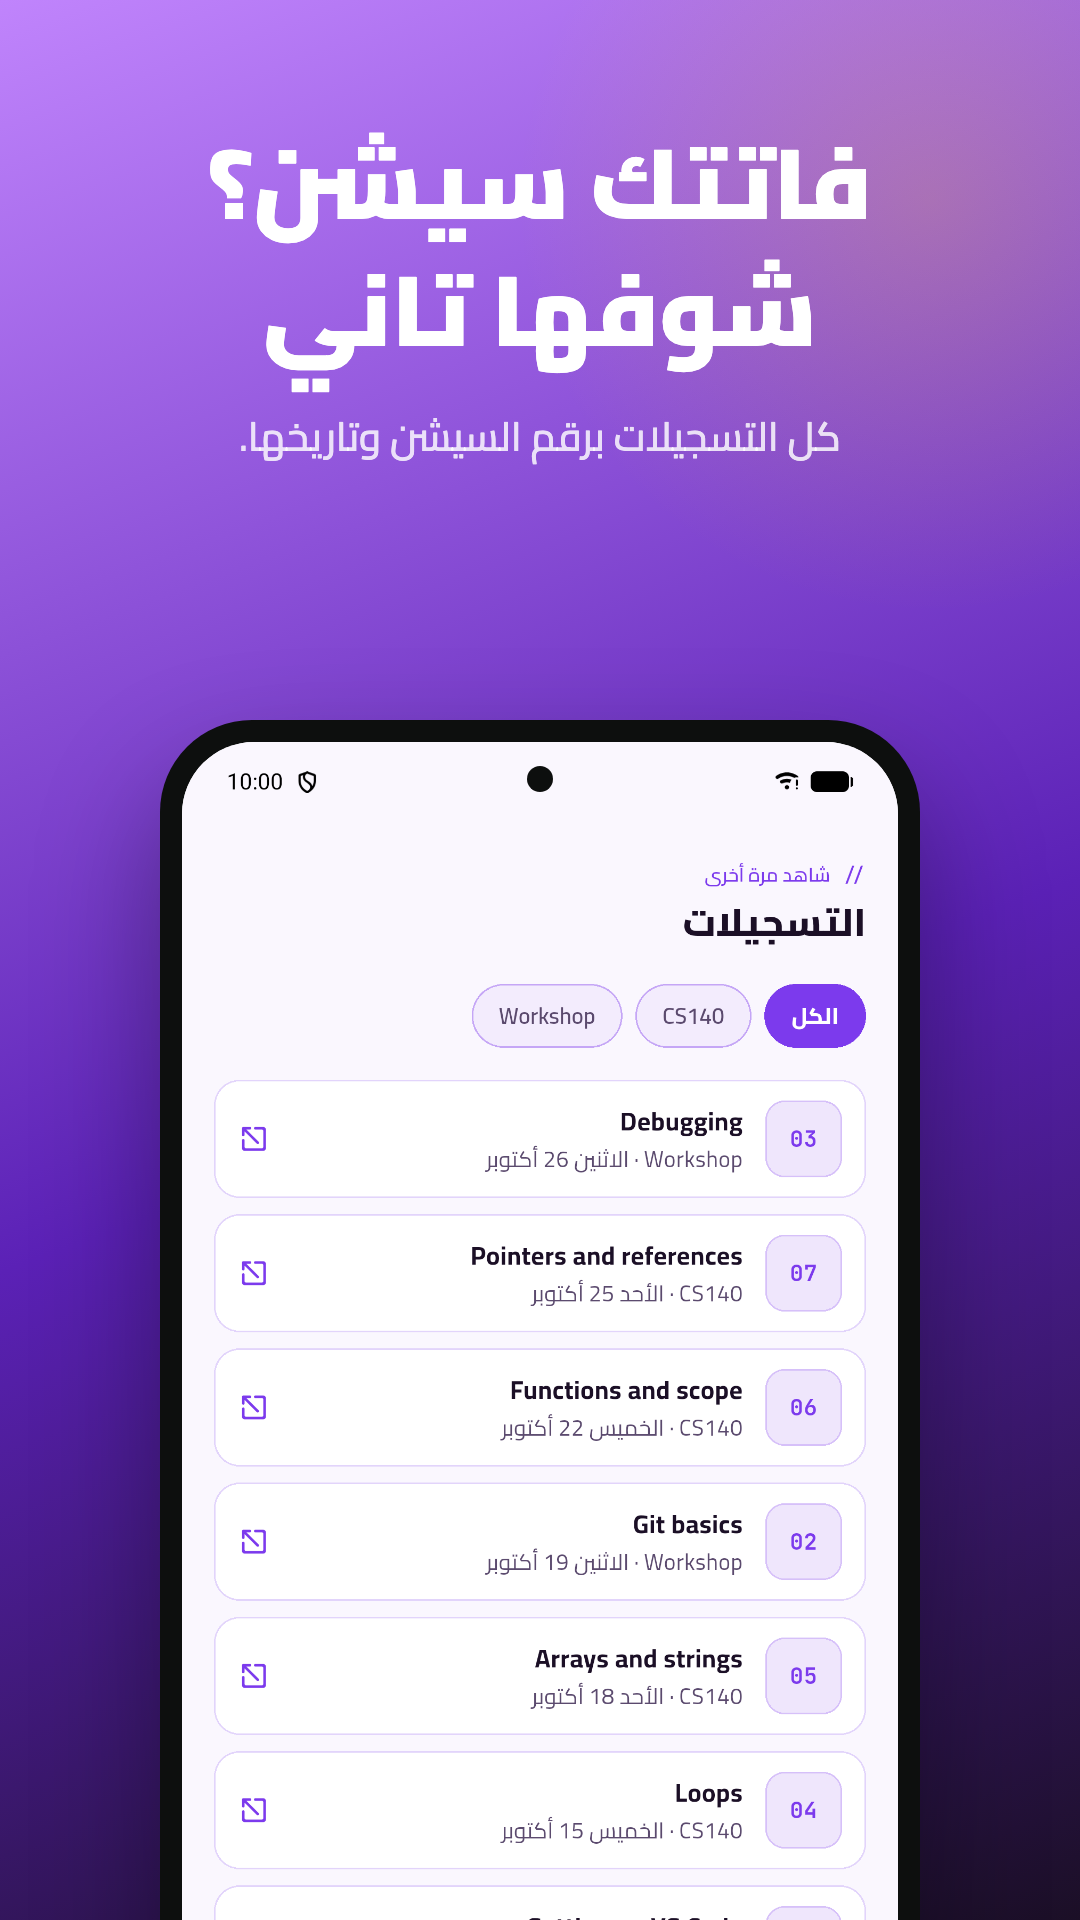
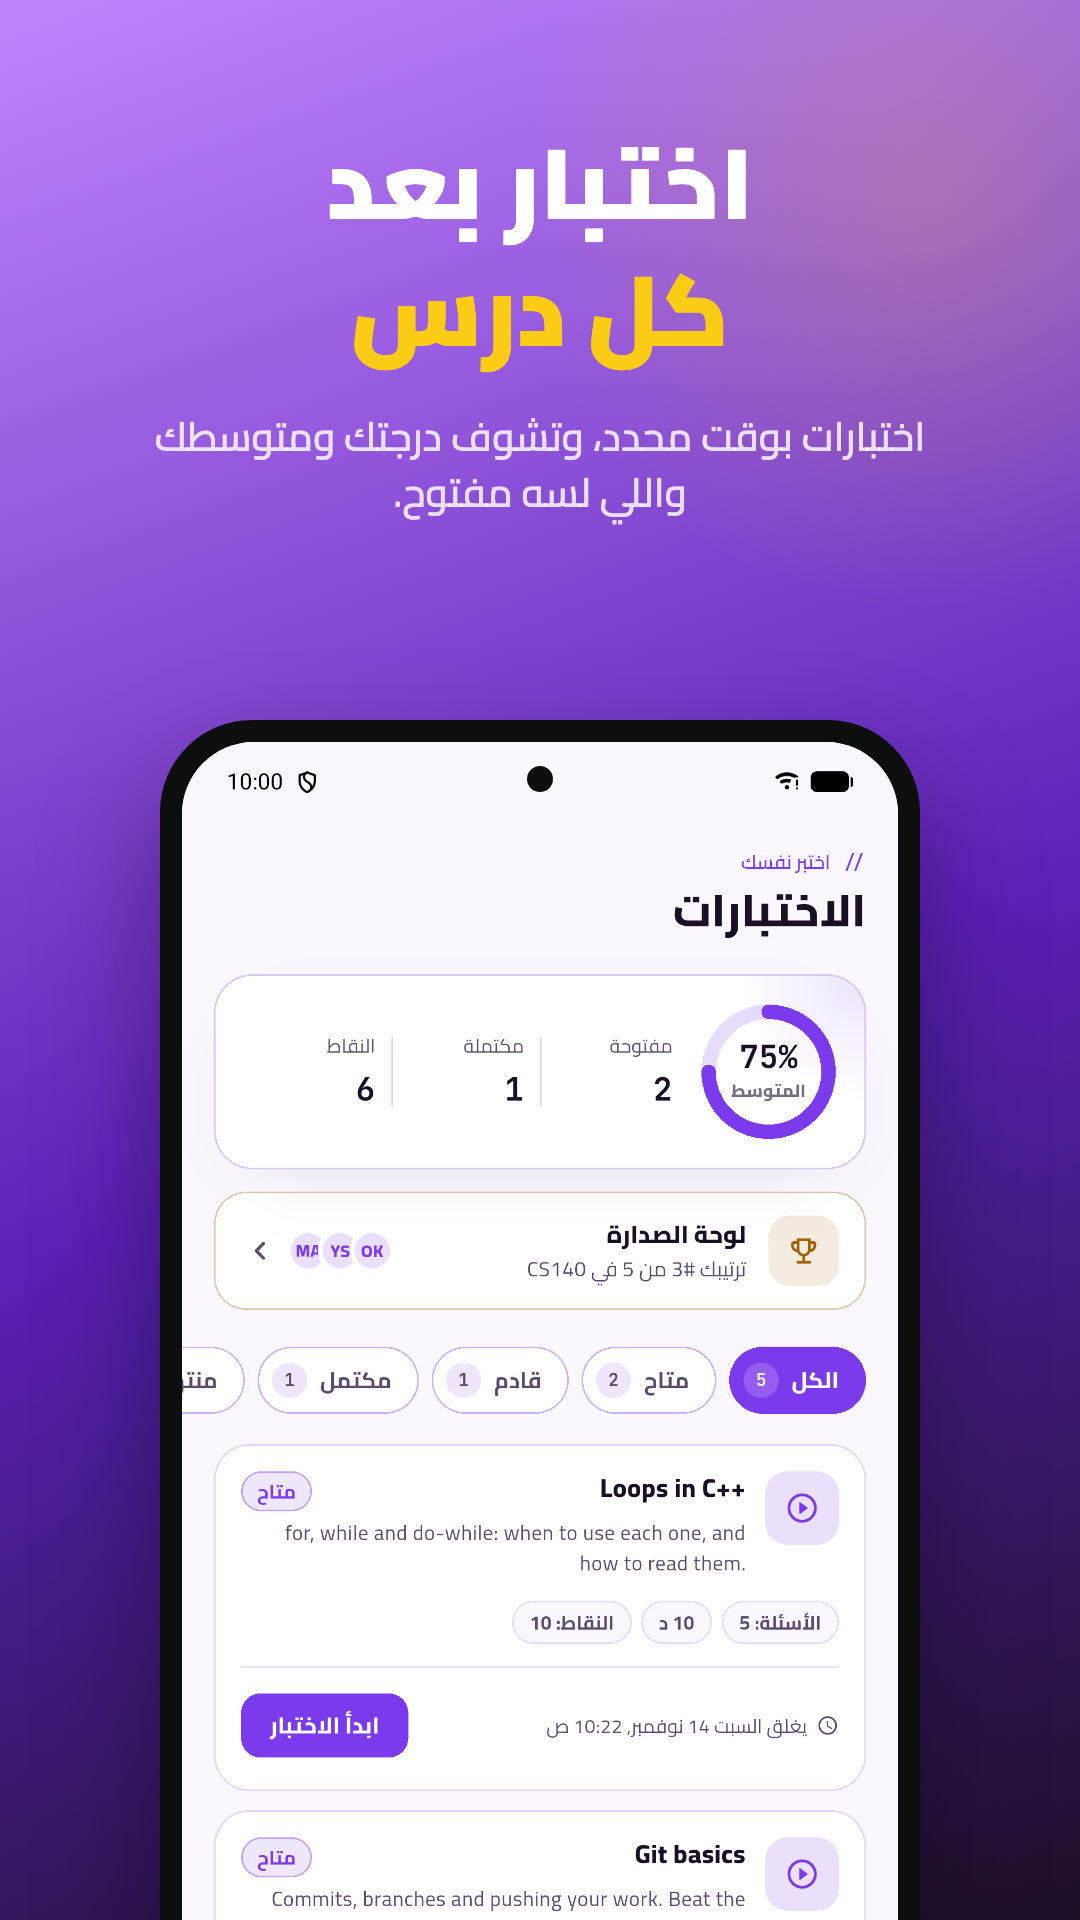
chore: Refresh the Play store listing for 1.0.2
- Version 1.0.2 (build 3).
- New phone screenshots, 8 per language, captured from the redesigned
  app with the demo data: the two-part hero, then Home, Schedule,
  Quizzes, Leaderboard, Recordings and Profile in dark mode. The hero
  now crops the "Due soon" quiz card instead of the latest recording.
- Listing text adds quizzes, the leaderboard, announcements and the
  Profile; reminders are now turned off from the Profile.
- play-console.md: Data safety adds app interactions (attendance,
  recordings opened, last opened) and quiz answers, 1.0.2 release notes,
  and what the reviewer's group needs before review.

diff --git a/store/make_hero.py b/store/make_hero.py
@@ -26,10 +26,10 @@ W, H, HALF = 2160, 1920, 1080
 
 # Card bounds in the 1344x2992 raw captures: (x, y, w, h, corner radius).
 CARDS = {
-    "en": {"next": (60, 448, 1224, 1035, 60), "recording": (60, 2404, 1224, 222, 60),
-           "moved": (60, 1390, 1224, 222, 48), "cancelled": (60, 1642, 1224, 222, 48)},
-    "ar": {"next": (60, 448, 1224, 1041, 60), "recording": (60, 2410, 1224, 222, 60),
-           "moved": (60, 1390, 1224, 222, 48), "cancelled": (60, 1642, 1224, 222, 48)},
+    "en": {"next": (60, 415, 1224, 1132, 60), "quiz": (60, 2245, 1224, 240, 60),
+           "moved": (146, 1576, 1140, 384, 48), "cancelled": (146, 1996, 1140, 384, 48)},
+    "ar": {"next": (60, 415, 1224, 1132, 60), "quiz": (60, 2245, 1224, 240, 60),
+           "moved": (58, 1576, 1140, 384, 48), "cancelled": (58, 1996, 1140, 384, 48)},
 }
 
 TEXT = {
@@ -170,11 +170,11 @@ h1 em{{font-style:normal;color:#C084FC}}
 {a_copy}
 {self.phone("01", 120, 760, 600, 14, -5)}
 {self.card("01", "next", 380, 990, 0.555, 3)}
-{self.card("01", "recording", 300, 1640, 0.52, -2)}
+{self.card("01", "quiz", 300, 1650, 0.52, -2)}
 {self.phone("02", HALF + 380, 120, 600, -14, 5)}
 {notif}
-{self.card("02", "moved", HALF + 80, 860, 0.53, -3)}
-{self.card("02", "cancelled", HALF + 150, 1030, 0.53, 2)}
+{self.card("02", "moved", HALF + 80, 800, 0.53, -3)}
+{self.card("02", "cancelled", HALF + 150, 1050, 0.53, 2)}
 {b_copy}"""
         return (f'<!doctype html><html dir="ltr"><head><meta charset="utf-8"><style>{css}</style></head>'
                 f'<body>{body}</body></html>')

diff --git a/store/play-console.md b/store/play-console.md
@@ -1,7 +1,11 @@
 # Google Play Console checklist: Cairo Coding
 
 Everything to upload is in this folder. The release bundle is
-`build/app/outputs/bundle/release/app-release.aab` (version 1.0.1, build 2).
+`build/app/outputs/bundle/release/app-release.aab` (version 1.0.2, build 3, built 2026-11-11).
+
+**Before you send 1.0.2 for review:** deploy the Firestore rules and the website (`firebase deploy --only firestore,hosting`, after
+`flutter build web -t lib/main_admin.dart`). The privacy policy online must already describe attendance, tasks and
+certificates when the Data safety form below says so, and the app's Profile reads the diploma name through the new rules.
 
 ## 1. Create the app
 Create app → App name **Cairo Coding** · Default language **English (United States)** · App · Free.
@@ -15,7 +19,7 @@ The package name `com.cairocodingschool.app` is permanent after the first upload
 | App access | All or some functionality is restricted → add the test student account (below) |
 | Ads | No, my app does not contain ads |
 | Advertising ID | No (the release manifest has no `AD_ID` permission) |
-| Content rating | Category: Education/Reference. Answer **No** to violence, sexuality, language, drugs, gambling, user-generated content, sharing location, and digital purchases |
+| Content rating | Category: Education/Reference. Answer **No** to violence, sexuality, language, drugs, gambling, user-generated content, sharing location, and digital purchases. Users can't chat or send each other anything; the group leaderboard only shows names and quiz scores inside a school group, so "users interact" stays **No** |
 | Target audience | The real ages of your students. Never tick "under 13" (it triggers the Families policy). If some students are under 18, tick 13–15 and/or 16–17 as well |
 | News app | No |
 | Government app | No |
@@ -25,20 +29,30 @@ The package name `com.cairocodingschool.app` is permanent after the first upload
 | Category | Education · contact email cairocodingschool1@gmail.com |
 
 ### App access instructions (paste, then fill in the account)
-> Accounts are created by Cairo Coding School; there is no sign-up. Sign in with the email and password below. The account is enrolled in a group with upcoming sessions and recordings. No two-factor authentication.
+> Accounts are created by Cairo Coding School; there is no sign-up. Sign in with the email and password below. The account is enrolled in a group with upcoming sessions, recordings and a published quiz. No two-factor authentication.
 
-Keep this account active and enrolled, and don't change its password, while any review is running.
+Keep this account active and enrolled, and don't change its password, while any review is running. So the reviewer sees
+every tab filled in, give the "Google Play Review" group a course (for the diploma on Profile), at least one published
+quiz that is open, and one past session with attendance and a task ticked.
 
 ### Data safety
 - Does your app collect or share user data? **Yes**, collects. **No** sharing.
 - Encrypted in transit: **Yes**.
 - Account creation: **My app does not allow users to create an account** (the school creates them).
 - Users can request deletion: **Yes** → https://cairo-coding-app.web.app/delete-account/
-- Data types (all **Collected**, not shared, required, for **App functionality** and **Account management**):
-  - Personal info → **Name**, **Email address**, **Phone number**, **User IDs** (the Firebase account ID)
-- Nothing else: no location, no analytics or crash data, no device IDs, no photos, no contacts.
-  The app has no Analytics, Crashlytics or FCM SDKs, so Firebase itself adds nothing to this list.
-  Reminders are local notifications, so they aren't data collection.
+- Data types (all **Collected**, **not shared**, processed ephemerally: **No**):
+  - Personal info → **Name**, **Email address**, **Phone number**, **User IDs** (the Firebase account ID).
+    Required. Purposes: **App functionality**, **Account management**.
+  - App activity → **App interactions**: the app records when you join a session (attendance), which recordings you
+    open, and when you last opened the app, so the school's dashboard can show them. Required.
+    Purposes: **App functionality**, **Analytics**.
+  - App activity → **Other user-generated content**: your quiz answers and scores. Optional (only if you take a quiz).
+    Purpose: **App functionality**.
+- Not collected by the app: task results and certificates (the school's staff enter those in the dashboard; the app
+  only shows them), location, crash data, device IDs, photos, contacts. The app has no Analytics, Crashlytics or FCM
+  SDKs, so Firebase itself adds nothing to this list. Reminders are local notifications, so they aren't data collection.
+- Leaderboards show a student's name and score to the students of their own group. That is display inside the app,
+  not sharing with a third party, so "shared" stays **No**.
 
 ### If asked about exact alarms
 The app declares `SCHEDULE_EXACT_ALARM` (not the restricted `USE_EXACT_ALARM`). Reason: *session reminders
@@ -48,8 +62,9 @@ The app declares `SCHEDULE_EXACT_ALARM` (not the restricted `USE_EXACT_ALARM`). 
 - Title / short / full description: `listing/en-*.txt`
 - App icon: `graphics/play-icon-512.png`
 - Feature graphic: `graphics/feature-graphic.png`
-- Phone screenshots, in this order: `screenshots/en/01.png` … `07.png` (01 + 02 are the two-part hero; keep them adjacent)
-- Arabic: Manage translations → add **Arabic** → `listing/ar-*.txt`, `graphics/feature-graphic-ar.png`, `screenshots/ar/01.png` … `07.png`
+- Phone screenshots, in this order: `screenshots/en/01.png` … `08.png` (01 + 02 are the two-part hero; keep them adjacent).
+  Delete the old ones first: the October set showed the app before the redesign.
+- Arabic: Manage translations → add **Arabic** → `listing/ar-*.txt`, `graphics/feature-graphic-ar.png`, `screenshots/ar/01.png` … `08.png`
 - Video: optional, and YouTube links only.
 
 ## 4. Testing and release
@@ -64,25 +79,17 @@ for 14 days in a row** before it can apply for production.
 
 Keep **Play App Signing** on when asked. The upload key stays on this Mac (see below).
 
-### Release notes
+### Release notes (1.0.2)
 ```
 <en-US>
-First release: your next session with a live countdown, the full schedule, recordings, and reminders 24 hours and 1 hour before each session.
+A fresh new look, plus quizzes with a leaderboard for your group, announcements from the school, and a Profile with your attendance, tasks and certificates.
 </en-US>
 <ar>
-أول إصدار: السيشن القادمة بعداد تنازلي، الجدول كامل، التسجيلات، وتنبيه قبل كل سيشن بـ 24 ساعة وبساعة.
+شكل جديد، واختبارات مع لوحة صدارة لمجموعتك، وإعلانات من المدرسة، وصفحة حسابك فيها الحضور والتاسكات والشهادات.
 </ar>
 ```
-
-If version 1.0.0 was already uploaded, use these for 1.0.1 instead:
-```
-<en-US>
-Join now opens your Zoom meeting straight in the Zoom app.
-</en-US>
-<ar>
-زرار الانضمام بقى بيفتح ميتنج Zoom على طول في تطبيق Zoom.
-</ar>
-```
+Both are under Play's 500-character limit. If 1.0.1 was never uploaded, this is the first release and the notes still
+read fine.
 
 ## Upload key (back this up)
 - Keystore: `~/.android-keystores/cairo_coding/upload-keystore.jks`, alias `cairocoding-upload`
@@ -91,7 +98,7 @@ Join now opens your Zoom meeting straight in the Zoom app.
   through Play support.
 
 ## Next upload
-Bump `version:` in `pubspec.yaml` (for example `1.0.2+3`; the build number must go up), then:
+Bump `version:` in `pubspec.yaml` (for example `1.0.3+4`; the build number must go up), then:
 ```bash
 flutter build appbundle --release -t lib/main_student.dart
 ```
